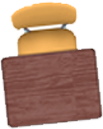
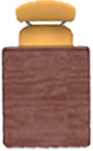
worked on seating plan design

diff --git a/src/pages/Dashboard/Modules/Notice/SeatingPlan/ManageSeatingPlan/index.js b/src/pages/Dashboard/Modules/Notice/SeatingPlan/ManageSeatingPlan/index.js
@@ -19,7 +19,7 @@ const customStyles = {
 };
 
 function ManageSeatingPlan() {
-  const { members } = useContext(AuthContext)
+  const { members } = useContext(AuthContext);
   const [seats, setSeats] = useState([]);
   const [govseat, setGovSeat] = useState([]);
 
@@ -28,7 +28,7 @@ function ManageSeatingPlan() {
     id: 0,
     name: "",
     seatNo: 0,
-    rowNumber: ""
+    rowNumber: "",
   });
 
   const openModal = (item) => {
@@ -37,7 +37,7 @@ function ManageSeatingPlan() {
       id: item?.member?.id,
       name: item?.member?.memberName,
       seatNo: item?.seatNumber,
-      rowNumber: item?.rowNumber
+      rowNumber: item?.rowNumber,
     });
     setIsOpen(true);
   };
@@ -47,7 +47,7 @@ function ManageSeatingPlan() {
       const response = await getAllSeats();
       if (response?.success) {
         setSeats(response?.data?.Opposition);
-        setGovSeat(response?.data?.Government)
+        setGovSeat(response?.data?.Government);
       }
     } catch (error) {
       // Handle error
@@ -63,18 +63,18 @@ function ManageSeatingPlan() {
     const Data = {
       fkMemberId: assigin ? selectedItem?.id : null,
       rowNumber: selectedItem?.rowNumber,
-      assignStatus: assigin ? true : false
-    }
+      assignStatus: assigin ? true : false,
+    };
     try {
       const response = await updateSeat(selectedItem.seatNo, Data);
       if (response?.success) {
-        showSuccessMessage(response.message)
-        getAllSeatsApi()
+        showSuccessMessage(response.message);
+        getAllSeatsApi();
       }
     } catch (error) {
       showErrorMessage(error?.response?.data?.message);
     }
-  }
+  };
 
   return (
     <>
@@ -85,10 +85,7 @@ function ManageSeatingPlan() {
         contentLabel="Example Modal"
       >
         <div class="card">
-          <div
-            class="card-header red-bg"
-            style={{ background: "#14ae5c !important" }}
-          >
+          <div class="card-header red-bg" style={{ background: "#14ae5c !important" }}>
             <h1>Add/Edit Seat</h1>
           </div>
           <div class="card-body">
@@ -114,7 +111,7 @@ function ManageSeatingPlan() {
                     className="form-select"
                     value={selectedItem?.id || ""}
                     onChange={(e) => {
-                      setSelectedItem({ ...selectedItem, id: e.target.value })
+                      setSelectedItem({ ...selectedItem, id: e.target.value });
                     }}
                   >
                     <option value={""} disabled hidden>
@@ -133,12 +130,7 @@ function ManageSeatingPlan() {
 
             <div className="d-flex row justify-content-center align-items-center">
               <div className="col-4" style={{ marginTop: "30px" }}>
-                <Button
-                  variant="primary"
-                  type="submit"
-                  style={{ width: 150 }}
-                  onClick={() => setIsOpen(false)}
-                >
+                <Button variant="primary" type="submit" style={{ width: 150 }} onClick={() => setIsOpen(false)}>
                   Cancel
                 </Button>
               </div>
@@ -148,8 +140,8 @@ function ManageSeatingPlan() {
                   type="submit"
                   style={{ width: 150 }}
                   onClick={() => {
-                    hendleAssiginandUnassigin(true)
-                    setIsOpen(false)
+                    hendleAssiginandUnassigin(true);
+                    setIsOpen(false);
                   }}
                 >
                   Assigin
@@ -161,8 +153,8 @@ function ManageSeatingPlan() {
                   type="submit"
                   style={{ width: 150 }}
                   onClick={() => {
-                    hendleAssiginandUnassigin(false)
-                    setIsOpen(false)
+                    hendleAssiginandUnassigin(false);
+                    setIsOpen(false);
                   }}
                 >
                   Un Assigin
@@ -183,47 +175,48 @@ function ManageSeatingPlan() {
         <div class="dashboard-content">
           <div class="container-fluid">
             <div class="sitting-plan-main">
-
               <div class="sitting-row">
                 <div>
-                  {['F', 'E', 'D', 'C', 'B', 'A'].map(rowLetter => (
+                  {["F", "E", "D", "C", "B", "A"].map((rowLetter) => (
                     <div className="row">
-                      <div className="col">
-                        {seats && seats
-                          .filter(item => item.rowNumber === rowLetter)
-                          .map((item, index) => (
-                            <div
-                              className="sitting-card-left float-start"
-                              key={index}
-                              onClick={() => openModal(item)}
-                            >
-                              <div className="sitt-card-left">
-                              <img src={require("../../../../../../assets/seat.png")}/>
-                                <h2>{item?.member?.memberName}</h2>
+                      <div className="col" style={{ marginBottom: "80px" }}>
+                        {seats &&
+                          seats
+                            .filter((item) => item.rowNumber === rowLetter)
+                            .map((item, index) => (
+                              <div
+                                className="sitting-card-left float-start"
+                                key={index}
+                                onClick={() => openModal(item)}
+                              >
+                                <div className="sitt-card-left">
+                                  <img src={require("../../../../../../assets/seat.png")} />
+                                  <h2>{item?.member?.memberName}</h2>
+                                  <p>{item.seatNumber}</p>
+                                </div>
                               </div>
-                              <p>{item.seatNumber}</p>
-                            </div>
-                          ))}
+                            ))}
                       </div>
                       <div className="col-1 text-center">
-                        <strong>{rowLetter}</strong>
+                        <strong style={{ marginTop: "80px", display: "block" }}>{rowLetter}</strong>
                       </div>
                       <div className="col">
-                        {govseat && govseat
-                          .filter(item => item.rowNumber === rowLetter)
-                          .map((item, index) => (
-                            <div
-                              className="sitting-card-right float-start"
-                              key={index}
-                              onClick={() => openModal(item)}
-                            >
-                              <div className="sitt-card-right">
-                              <img src={require("../../../../../../assets/seat.png")}/>
-                                <h2>{item?.member?.memberName}</h2>
+                        {govseat &&
+                          govseat
+                            .filter((item) => item.rowNumber === rowLetter)
+                            .map((item, index) => (
+                              <div
+                                className="sitting-card-right float-start"
+                                key={index}
+                                onClick={() => openModal(item)}
+                              >
+                                <div className="sitt-card-right">
+                                  <img src={require("../../../../../../assets/seat.png")} />
+                                  <h2>{item?.member?.memberName}</h2>
+                                  <p>{item?.seatNumber}</p>
+                                </div>
                               </div>
-                              <p>{item?.seatNumber}</p>
-                            </div>
-                          ))}
+                            ))}
                       </div>
                     </div>
                   ))}

diff --git a/src/utils/custom.css b/src/utils/custom.css
@@ -3371,7 +3371,7 @@ textarea {
 .sitting-card-left {
   text-align: center;
 }
-.sitting-card-left:nth-child(1) {
+/* .sitting-card-left:nth-child(1) {
   margin-top: 90px;
 }
 .sitting-card-left:nth-child(2) {
@@ -3397,11 +3397,15 @@ textarea {
 }
 .sitting-card-left:nth-child(9) {
   margin-top: 10px;
-}
+} */
 .sitting-card-left h2 {
   font-size: 18px;
   margin-top: 35px;
   color: white;
+  position: absolute;
+  top: 24px;
+  font-size: 14px;
+  left: 10px;
 }
 .sitting-card-right h2 {
   font-size: 18px;
@@ -3414,7 +3418,7 @@ textarea {
 .sitting-card-right {
   text-align: center;
 }
-.sitting-card-right:nth-child(1) {
+/* .sitting-card-right:nth-child(1) {
   margin-top: 10px;
 }
 .sitting-card-right:nth-child(2) {
@@ -3440,7 +3444,7 @@ textarea {
 }
 .sitting-card-right:nth-child(9) {
   margin-top: 90px;
-}
+} */
 .dashboard-nav .active a {
   color: #fff;
 }
@@ -3461,23 +3465,42 @@ textarea {
 }
 .sitt-card-left {
   border-radius: 10px;
-  width: 85px;
+  width: 82px;
   height: 100px;
   padding: 5px;
   text-align: center;
   margin-left: 10px;
-  transform: rotate(-5deg);
-  background: url("../assets/seat.png") no-repeat;
+  position: relative;
+  /* transform: rotate(-5deg); */
+  /* background: url("../assets/seat.png") no-repeat; */
+}
+.sitt-card-left p{
+  position: absolute;
+  left:35px;
+}
+.sitt-card-left img{
+  width: 116%;
 }
 .sitt-card-right {
   border-radius: 10px;
-  width: 85px;
+  width: 82px;
   height: 100px;
   padding: 5px;
   text-align: center;
   margin-left: 10px;
-  transform: rotate(5deg);
-  background: url("../assets/seat.png") no-repeat;
+  position: relative;
+  /* transform: rotate(5deg);
+  background: url("../assets/seat.png") no-repeat; */
+}
+.sitt-card-right img{
+  width: 116%;
+}
+.sitting-card-right h2 {
+  font-size: 14px;
+  margin-top: 35px;
+  color: white;
+  position: absolute;
+  top: 25px;
 }
 .center-content {
   width: 210px;
@@ -3496,9 +3519,9 @@ textarea {
 .sitting-card-right p {
   transform: rotate(5deg);
 }
-.sitting-card-left p {
+/* .sitting-card-left p {
   transform: rotate(-5deg);
-}
+} */
 
 .tab-right {
   overflow: hidden;
